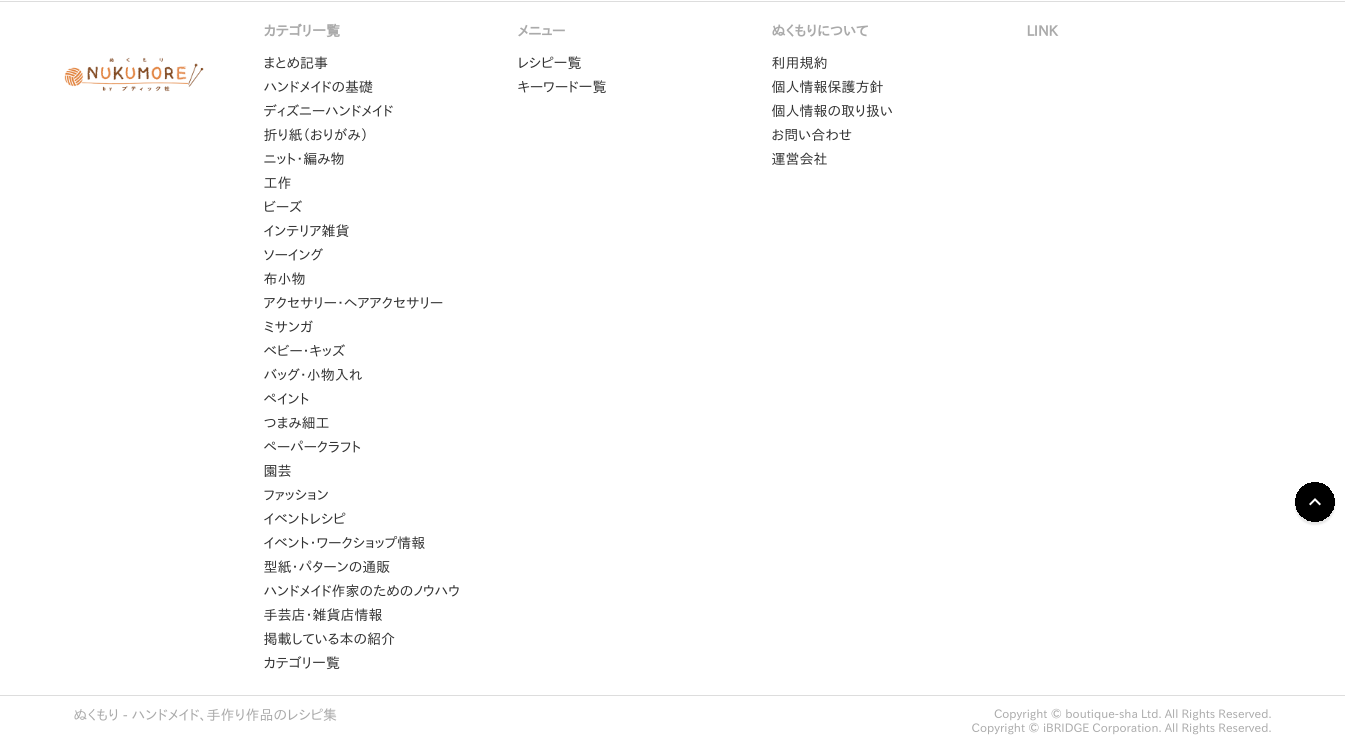
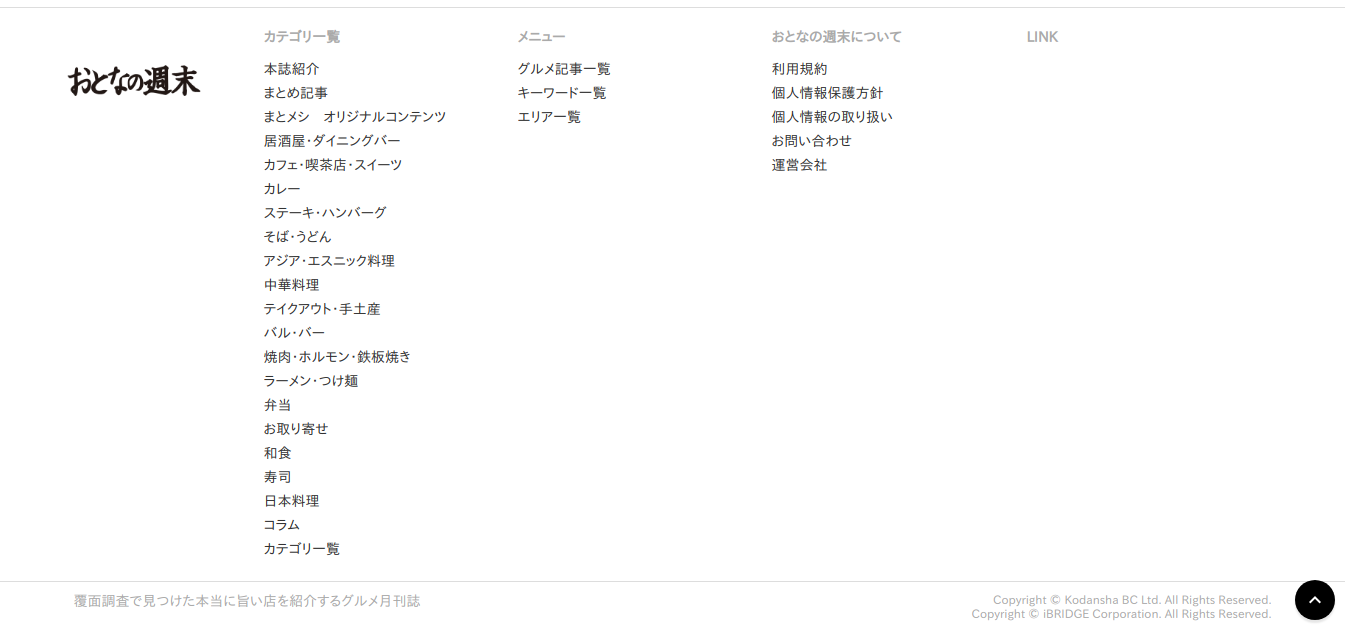
feat: 「大人の週末」に対応

diff --git a/src/components/templates/App.tsx b/src/components/templates/App.tsx
@@ -22,11 +22,11 @@ const App: React.FC<Props> = ({ recommends, articles }) => (
     <Header />
     <div className="App__recommends">
       <div className="App__hotTopic">
-        <img src="https://nukumore.jp/data/img/articleMainImg/number/1795/82a2ab6891b5981f6cc6bcb41a3466ee.jpeg" />
+        <img src="https://otonano-shumatsu.com/data/img/articleMainImg/number/5523/thumb_lg_mato_osaka_069_image26_1577458270.jpeg" />
         <div className="App__hotTopicTitle">
           <span>
           <span className="App__hotTopicTitleName">Hot Topics</span><br />
-            かぎ針編みの「がまぐちポーチ」の作り方
+            大阪穴場グルメ_江戸時代より伝承のそばを受け
           </span>
         </div>
       </div>
@@ -63,20 +63,20 @@ const App: React.FC<Props> = ({ recommends, articles }) => (
 
       <div className="App__newArticles">
         <NewArticles articles={articles} tags={[
-          '小物入れ',
-          '動物',
-          'うさぎ',
-          'ブレスレット',
-          'ポーチ',
-          'キッズ',
-          '初心者さんにおすすめ簡単レシピ',
-          'ハート',
-          '和風の小物',
-          'カバンの中に入れる小物の作り方',
-          '子どもと遊べる折り紙の作り方',
-          'キャンディ',
-          'バレンタイン',
-          '簡単！ こどもの日の折り紙の折形特集'
+          'テイクアウト',
+          'カニ',
+          'ウニ',
+          '馬肉',
+          '「築地・アメ横・松戸」エビ・カニ三都物語',
+          '秋葉原駅',
+          '真田幸村を食と散策で楽しむ！',
+          'うどん',
+          '上田駅',
+          '築地市場駅',
+          '築地場外市場',
+          'パン',
+          'メタボ',
+          '居酒屋日本シリーズ博多VS広島',
         ]} />
       </div>
 

diff --git a/src/components/organisms/Books.tsx b/src/components/organisms/Books.tsx
@@ -14,13 +14,13 @@ const Books: React.FC = () => (
     <div className="Books__arrow Books__arrow--left" />
     <div className="Books__arrow Books__arrow--right" />
     <div className="Books__inline">
-      <img src="https://nukumore.jp/data/img/articleContents/old/29889/lbs4691_book.jpg" />
-      <img src="https://nukumore.jp/data/img/articleContents/old/29550/lbs4666_book.jpg" />
-      <img src="https://nukumore.jp/data/img/articleContents/old/29336/lbs4697_book.jpg" />
-      <img src="https://nukumore.jp/data/img/articleContents/old/29190/lbs4529_book.jpg" />
-      <img src="https://nukumore.jp/data/img/articleContents/old/27254/lbs4485_book.jpg" />
-      <img src="https://nukumore.jp/data/img/articleContents/old/28216/lbs4474_book.jpg" />
-      <img src="https://nukumore.jp/data/img/articleContents/old/28113/lbs4592_book.jpg" />
+      <img src="https://otonano-shumatsu.com/data/img/articleContents/number/5818/4910122330403_1584081106.jpeg" />
+      <img src="https://otonano-shumatsu.com/data/img/articleContents/number/5704/9d8a5864be9f8c2b3e78a829326958f1.jpeg" />
+      <img src="https://otonano-shumatsu.com/data/img/articleContents/number/5710/hyoushi_1582701411.jpeg" />
+      <img src="https://otonano-shumatsu.com/data/img/articleContents/number/5711/hyoushi_1582701851.jpeg" />
+      <img src="https://otonano-shumatsu.com/data/img/articleContents/number/5712/hyoushi_1582702141.jpeg" />
+      <img src="https://otonano-shumatsu.com/data/img/articleContents/number/5713/hyoushi_1582774059.jpeg" />
+      <img src="https://otonano-shumatsu.com/data/img/articleContents/number/5714/hyoushi_1582776258.jpeg" />
     </div>
   </div>
 );

diff --git a/src/components/organisms/Banners.tsx b/src/components/organisms/Banners.tsx
@@ -6,10 +6,7 @@ const Banners: React.FC = () => (
     <div className="Banners__arrow Banners__arrow--left" />
     <div className="Banners__arrow Banners__arrow--right" />
     <div className="Banners__inline">
-      <img src="https://nukumore.jp/data/img/upload/upload_Img50.png" />
-      <img src="https://nukumore.jp/data/img/upload/74eec0cf-b024-4085-b231-4f3cca481086.png" />
-      <img src="https://nukumore.jp/data/img/upload/upload_Img63.png" />
-      <img src="https://nukumore.jp/data/img/upload/a1e1ab54-fd25-4c05-aa22-ef6f5f64cff9.gif" />
+      <img src="https://otonano-shumatsu.com/data/img/upload/upload_Img13.jpeg" />
     </div>
   </div>
 );

diff --git a/src/components/organisms/NewArticles.tsx b/src/components/organisms/NewArticles.tsx
@@ -25,7 +25,7 @@ const NewArticles: React.FC<Props> = ({ articles, tags }) => (
         <div className="NewArticles__tagsSpace">
           {
             tags.map((v) => (
-              <div className="NewArticles__tag NewArticles__tag--green">
+              <div className="NewArticles__tag NewArticles__tag--red">
                 <i className="material-icons">local_offer</i>
                 <span> </span>
                 { v }

diff --git a/src/components/organisms/Books.sass b/src/components/organisms/Books.sass
@@ -10,13 +10,13 @@
     position: absolute
     top: 0
     left: 0
-    color: #FFB48F
+    color: crimson
     font-size: 1.6vw
     font-weight: bold
     letter-spacing: .5vw
     white-space: nowrap
     background-color: rgba(255, 255, 255, .3)
-    border: .2vw #FFB48F solid
+    border: .2vw crimson solid
     padding: .7% 3%
     display: flex
     align-items: flex-end

diff --git a/src/components/molecules/CatchPhrase.tsx b/src/components/molecules/CatchPhrase.tsx
@@ -5,7 +5,7 @@ import './CatchPhrase.media.sass';
 const CatchPhrase: React.FC = () => (
   <div className="CatchPhrase">
     <div className="CatchPhrase__inline">
-      ハンドメイドのレシピサイト
+      覆面調査で見つけた本当に旨い店を掲載する「元気が出る食の情報誌」
     </div>
   </div>
 );

diff --git a/src/components/molecules/CatchPhrase.sass b/src/components/molecules/CatchPhrase.sass
@@ -1,14 +1,14 @@
 .CatchPhrase
   width: 100%
   height: 100%
-  background-color: #FFA887
+  background-color: #2A3033
 
   &__inline
     width: 90%
     color: white
     font-size: 0.8vw
     font-weight: bold
-    letter-spacing: 0.55vw
+    letter-spacing: 0.1vw
     display: flex
     align-items: center
     padding: 0.5% 0

diff --git a/src/components/molecules/RegisterButton.sass b/src/components/molecules/RegisterButton.sass
@@ -1,11 +1,11 @@
 .RegisterButton
   width: 100%
   height: 100%
-  color: #FFA887
+  color: crimson
   font-size: 1vw
   font-weight: bold
   letter-spacing: 1px
-  border: 1px #FFA887 solid
+  border: 1px crimson solid
   border-radius: 3% / 15%
   display: flex
   justify-content: center

diff --git a/src/components/organisms/ArticleListItem.sass b/src/components/organisms/ArticleListItem.sass
@@ -31,7 +31,11 @@
     color: #333
     font-size: 1.25vw
     font-weight: bold
+    display: -webkit-box
+    -webkit-line-clamp: 1
+    -webkit-box-orient: vertical
     margin-bottom: 1%
+    overflow: hidden
 
   &__description
     display: -webkit-box

diff --git a/src/components/organisms/SearchForm.tsx b/src/components/organisms/SearchForm.tsx
@@ -11,7 +11,7 @@ const SearchForm: React.FC = () => (
     <input
       className="SearchForm__text"
       type="search"
-      placeholder="作りたいレシピをさがす！"
+      placeholder="いま何を食べたい？"
     />
   </form>
 );

diff --git a/src/components/molecules/RecommendCard.sass b/src/components/molecules/RecommendCard.sass
@@ -42,7 +42,7 @@
     color: white
     font-size: 0.85vw
     white-space: nowrap
-    background-color: #55BF98
+    background-color: crimson
     border-radius: 4px
     padding: 2% 4%
     display: inline-block

diff --git a/src/components/organisms/NewArticles.sass b/src/components/organisms/NewArticles.sass
@@ -55,6 +55,10 @@
     border-radius: 4px
     margin: 0 .2vw .7vw
 
+    &--red
+      color: #FF3D61
+      border: 1px #FF3D61 solid
+
     &--blue
       color: #45AED6
       border: 1px #45AED6 solid
